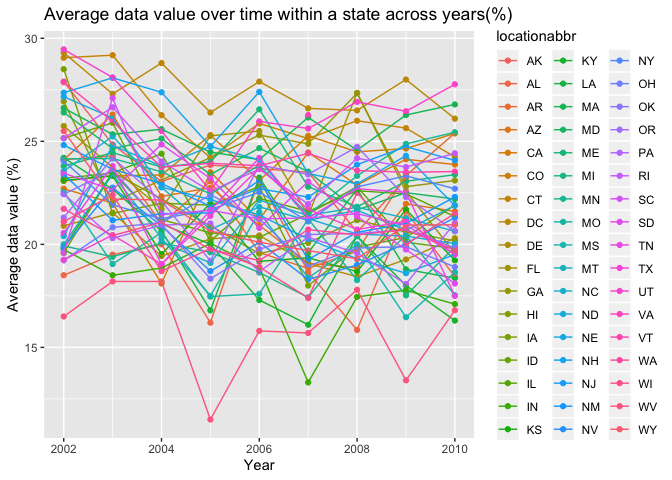
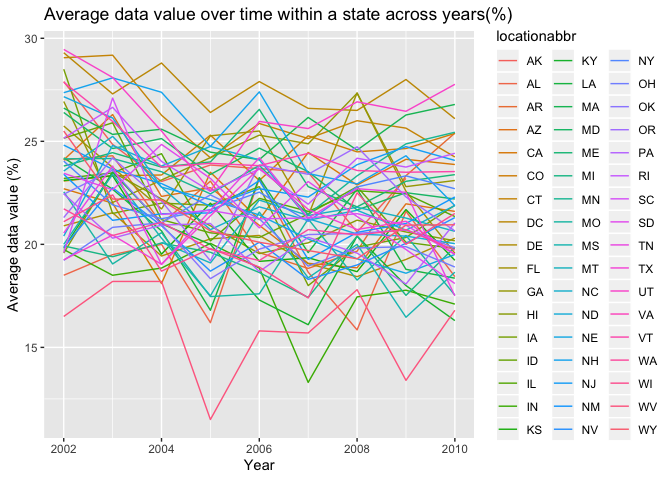
modifythe the Spaghetti plot

diff --git a/p8105_hw3_ra2965.md b/p8105_hw3_ra2965.md
@@ -227,7 +227,7 @@ excellent_response = health %>%
 
 excellent_response %>%
   ggplot(aes(x = year, y = mean_data, color = locationabbr)) + 
-    geom_point() + geom_line() +
+  geom_line() +
   labs(
     title = "Average data value over time within a state across years(%)",
     x = "Year",
@@ -252,7 +252,7 @@ ggplot(ny, aes(x = response, y = data_value)) +
   labs(
     title = "Distribution of data_value for responses among locations in NY State",
     x = "Response",
-    y = "Data Value"
+    y = "Data Value (%)"
   ) 
 ```
 
@@ -260,4 +260,8 @@ ggplot(ny, aes(x = response, y = data_value)) +
 
 ``` r
 #Warning in install.packages :package ‘patchwork’ is not available (for R version 3.6.1)
+```
+
+``` r
+accel_data = read_csv(file = "./accel_data.csv")
 ```
